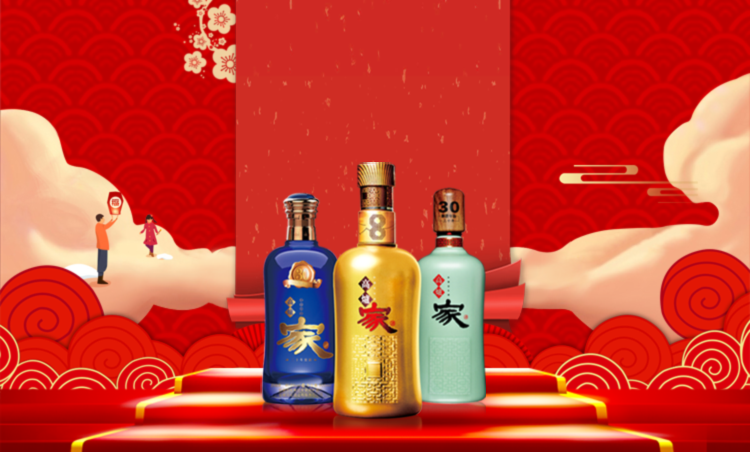
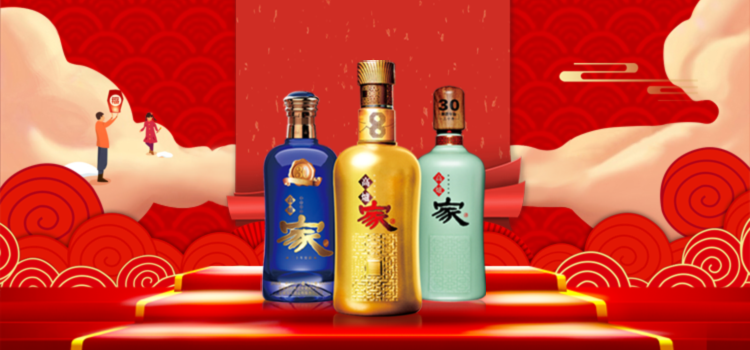
背景修改

diff --git a/src/views/account/personal.vue b/src/views/account/personal.vue
@@ -176,8 +176,8 @@ export default {
     }
     .personalTopBg{
       background:url('../../assets/img/index/bg_shijie@2x.png') no-repeat;
-      background-size: 100%;
-      height: 325/40rem;
+      background-size: 100% 100%;
+      height: 350/40rem;
     }
     .accountBoxT {
       height: 128/40rem;
